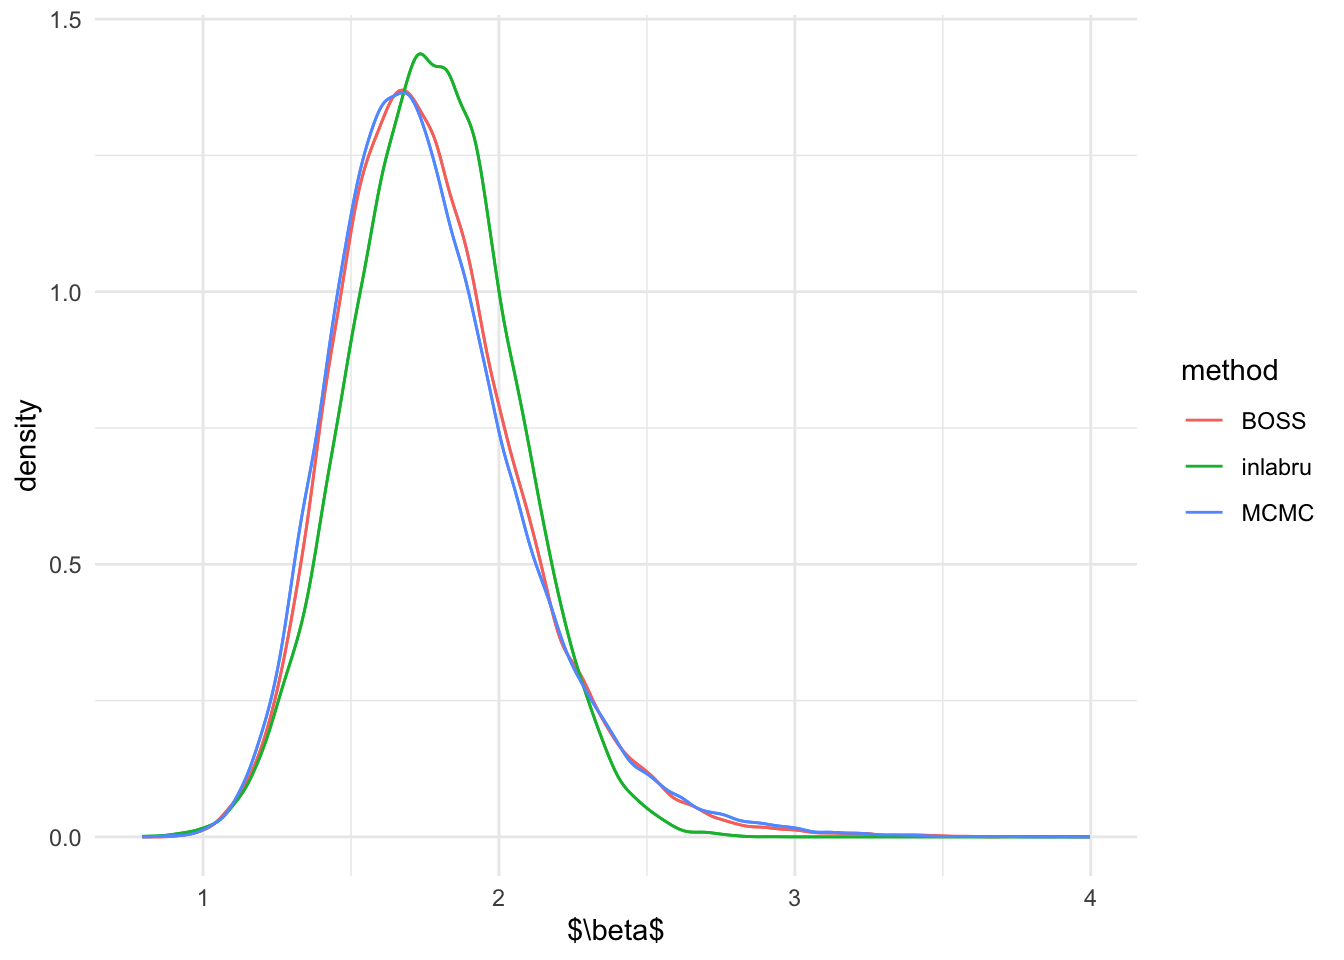
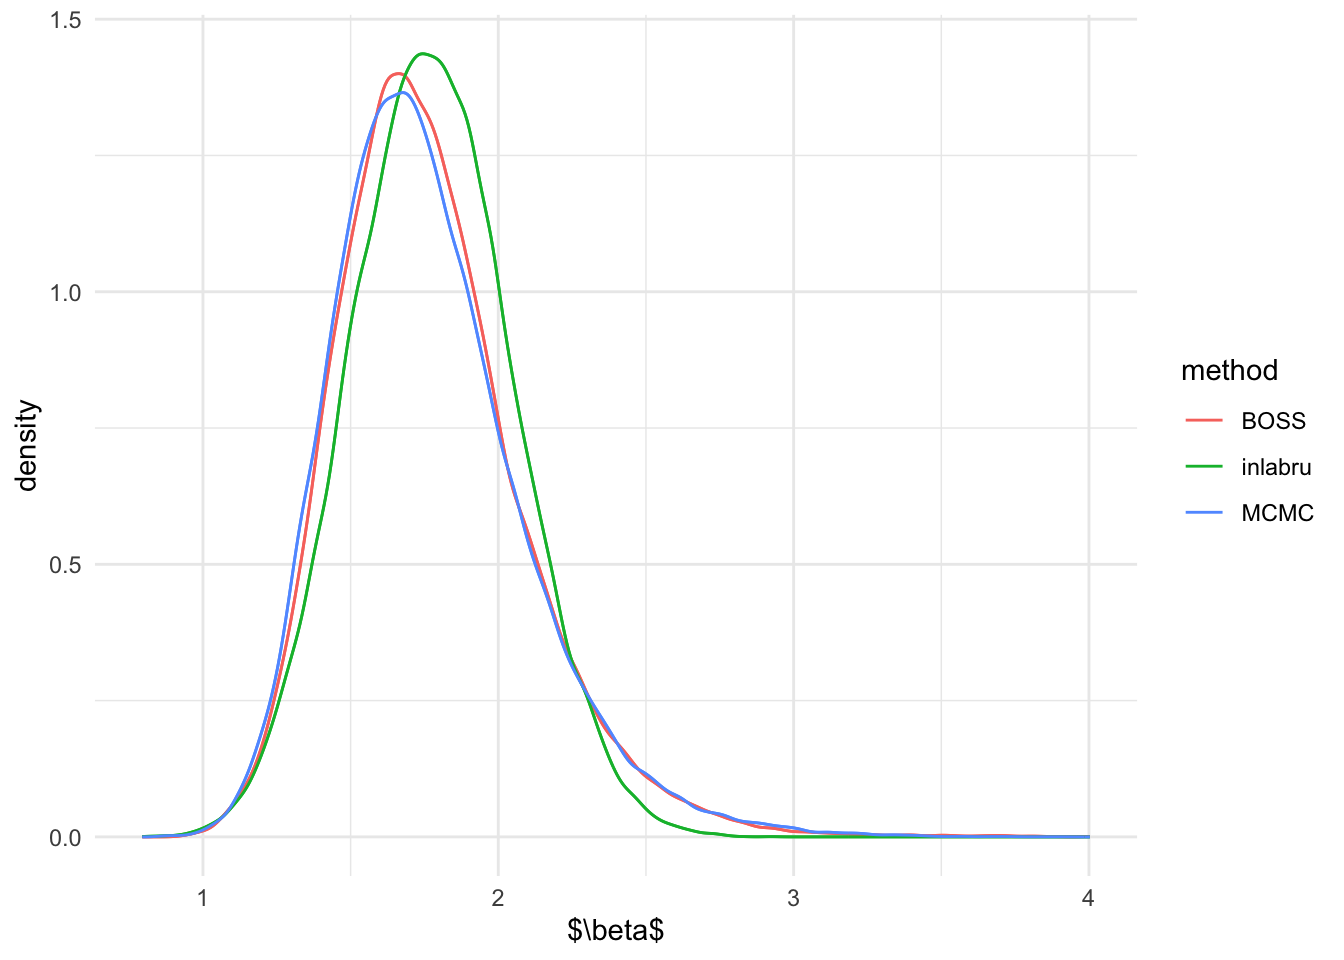
Build site.

diff --git a/docs/sim3.html b/docs/sim3.html
@@ -531,15 +531,15 @@ project makes it easier to run your code on other machines.</p>
 <div class="panel panel-default">
 <div class="panel-heading">
 <p class="panel-title">
-<a data-toggle="collapse" data-parent="#workflowr-checks" href="#strongRepositoryversionstrongahrefhttpsgithubcomAgueroZZBOSSwebsitetree85dca709f0cf4c2314452443a1422ed5182a3d26targetblank85dca70a">
+<a data-toggle="collapse" data-parent="#workflowr-checks" href="#strongRepositoryversionstrongahrefhttpsgithubcomAgueroZZBOSSwebsitetreec17bcc1a79e01fdcad8eb69568019f74222e55a2targetblankc17bcc1a">
 <span class="glyphicon glyphicon-ok text-success"
 aria-hidden="true"></span> <strong>Repository version:</strong>
-<a href="https://github.com/AgueroZZ/BOSS_website/tree/85dca709f0cf4c2314452443a1422ed5182a3d26" target="_blank">85dca70</a>
+<a href="https://github.com/AgueroZZ/BOSS_website/tree/c17bcc1a79e01fdcad8eb69568019f74222e55a2" target="_blank">c17bcc1</a>
 </a>
 </p>
 </div>
 <div
[2 lines of base64/hex data omitted]
 class="panel-collapse collapse">
 <div class="panel-body">
 <p>
@@ -549,7 +549,7 @@ reproducibility.
 </p>
 <p>
 The results in this page were generated with repository version
-<a href="https://github.com/AgueroZZ/BOSS_website/tree/85dca709f0cf4c2314452443a1422ed5182a3d26" target="_blank">85dca70</a>.
+<a href="https://github.com/AgueroZZ/BOSS_website/tree/c17bcc1a79e01fdcad8eb69568019f74222e55a2" target="_blank">c17bcc1</a>.
 See the <em>Past versions</em> tab to see a history of the changes made
 to the R Markdown and HTML files.
 </p>
@@ -572,6 +572,16 @@ Ignored files:
     Ignored:    data/dimension/
     Ignored:    data/sim3/
     Ignored:    output/.DS_Store
+
+Untracked files:
+    Untracked:  R_marginal.aux
+    Untracked:  R_marginal.log
+    Untracked:  R_marginal.pdf
+    Untracked:  R_marginal.tex
+    Untracked:  beta_marginal.aux
+    Untracked:  beta_marginal.log
+    Untracked:  beta_marginal.pdf
+    Untracked:  beta_marginal.tex
 
 Unstaged changes:
     Modified:   output/sim3/MCMC_small_n_sim3.rda
@@ -618,6 +628,40 @@ Message
 </tr>
 </thead>
 <tbody>
+<tr>
+<td>
+Rmd
+</td>
+<td>
+<a href="https://github.com/AgueroZZ/BOSS_website/blob/c17bcc1a79e01fdcad8eb69568019f74222e55a2/analysis/sim3.Rmd" target="_blank">c17bcc1</a>
+</td>
+<td>
+david.li
+</td>
+<td>
+2025-05-09
+</td>
+<td>
+wflow_publish("analysis/sim3.Rmd")
+</td>
+</tr>
+<tr>
+<td>
+html
+</td>
+<td>
+<a href="https://rawcdn.githack.com/AgueroZZ/BOSS_website/6120746d5de718fb51c4eb46d67464ec1e74d5ec/docs/sim3.html" target="_blank">6120746</a>
+</td>
+<td>
+david.li
+</td>
+<td>
+2025-05-09
+</td>
+<td>
+Build site.
+</td>
+</tr>
 <tr>
 <td>
 Rmd
@@ -1240,8 +1284,8 @@ class="math inline">\(\beta\)</span> from <code>inlabru</code>, BOSS,
 and MCMC.</p>
 <pre class="r"><code># inlabru marginal samples
 set.seed(1234)
-inla.samples.a &lt;- a_fun(inla.rmarginal(49500, fit$marginals.fixed$a))
-inla.samples.b &lt;- b_fun(inla.rmarginal(49500, fit$marginals.fixed$b))
+inla.samples.a &lt;- a_fun(inla.rmarginal(76000, fit$marginals.fixed$a))
+inla.samples.b &lt;- b_fun(inla.rmarginal(76000, fit$marginals.fixed$b))
 
 # BOSS-modal marginal samples
 data_to_smooth &lt;- list()
@@ -1272,7 +1316,7 @@ post_x_modal &lt;- data.frame(x_original, pos = exp(fn_vals - lognormal_const))
 dx &lt;- unique(post_x_modal$x.1)[2] - unique(post_x_modal$x.1)[1]
 dy &lt;- unique(post_x_modal$x.2)[2] - unique(post_x_modal$x.2)[1]
 set.seed(123456)
-sample_idx &lt;- rmultinom(1:90000, size = 49500, prob = post_x_modal$pos)
+sample_idx &lt;- rmultinom(1:90000, size = 76000, prob = post_x_modal$pos)
 sample_x_modal &lt;- data.frame(post_x_modal, n = sample_idx)
 
 samples_BOSS_modal &lt;- data.frame(do.call(rbind, apply(sample_x_modal, 1, function(x) cbind(runif(x[4], x[1], x[1]+dx), runif(x[4], x[2], x[2] + dy)))))
@@ -1326,6 +1370,17 @@ Date
 </tr>
 </thead>
 <tbody>
+<tr>
+<td>
+<a href="https://github.com/AgueroZZ/BOSS_website/blob/6120746d5de718fb51c4eb46d67464ec1e74d5ec/docs/figure/sim3.Rmd/unnamed-chunk-9-1.png" target="_blank">6120746</a>
+</td>
+<td>
+david.li
+</td>
+<td>
+2025-05-09
+</td>
+</tr>
 <tr>
 <td>
 <a href="https://github.com/AgueroZZ/BOSS_website/blob/e2f7ebc0026495e5cd433bb9f83c983e6665a4cf/docs/figure/sim3.Rmd/unnamed-chunk-9-1.png" target="_blank">e2f7ebc</a>
@@ -1436,6 +1491,17 @@ Date
 </tr>
 </thead>
 <tbody>
+<tr>
+<td>
+<a href="https://github.com/AgueroZZ/BOSS_website/blob/6120746d5de718fb51c4eb46d67464ec1e74d5ec/docs/figure/sim3.Rmd/unnamed-chunk-10-1.png" target="_blank">6120746</a>
+</td>
+<td>
+david.li
+</td>
+<td>
+2025-05-09
+</td>
+</tr>
 <tr>
 <td>
 <a href="https://github.com/AgueroZZ/BOSS_website/blob/e2f7ebc0026495e5cd433bb9f83c983e6665a4cf/docs/figure/sim3.Rmd/unnamed-chunk-10-1.png" target="_blank">e2f7ebc</a>
